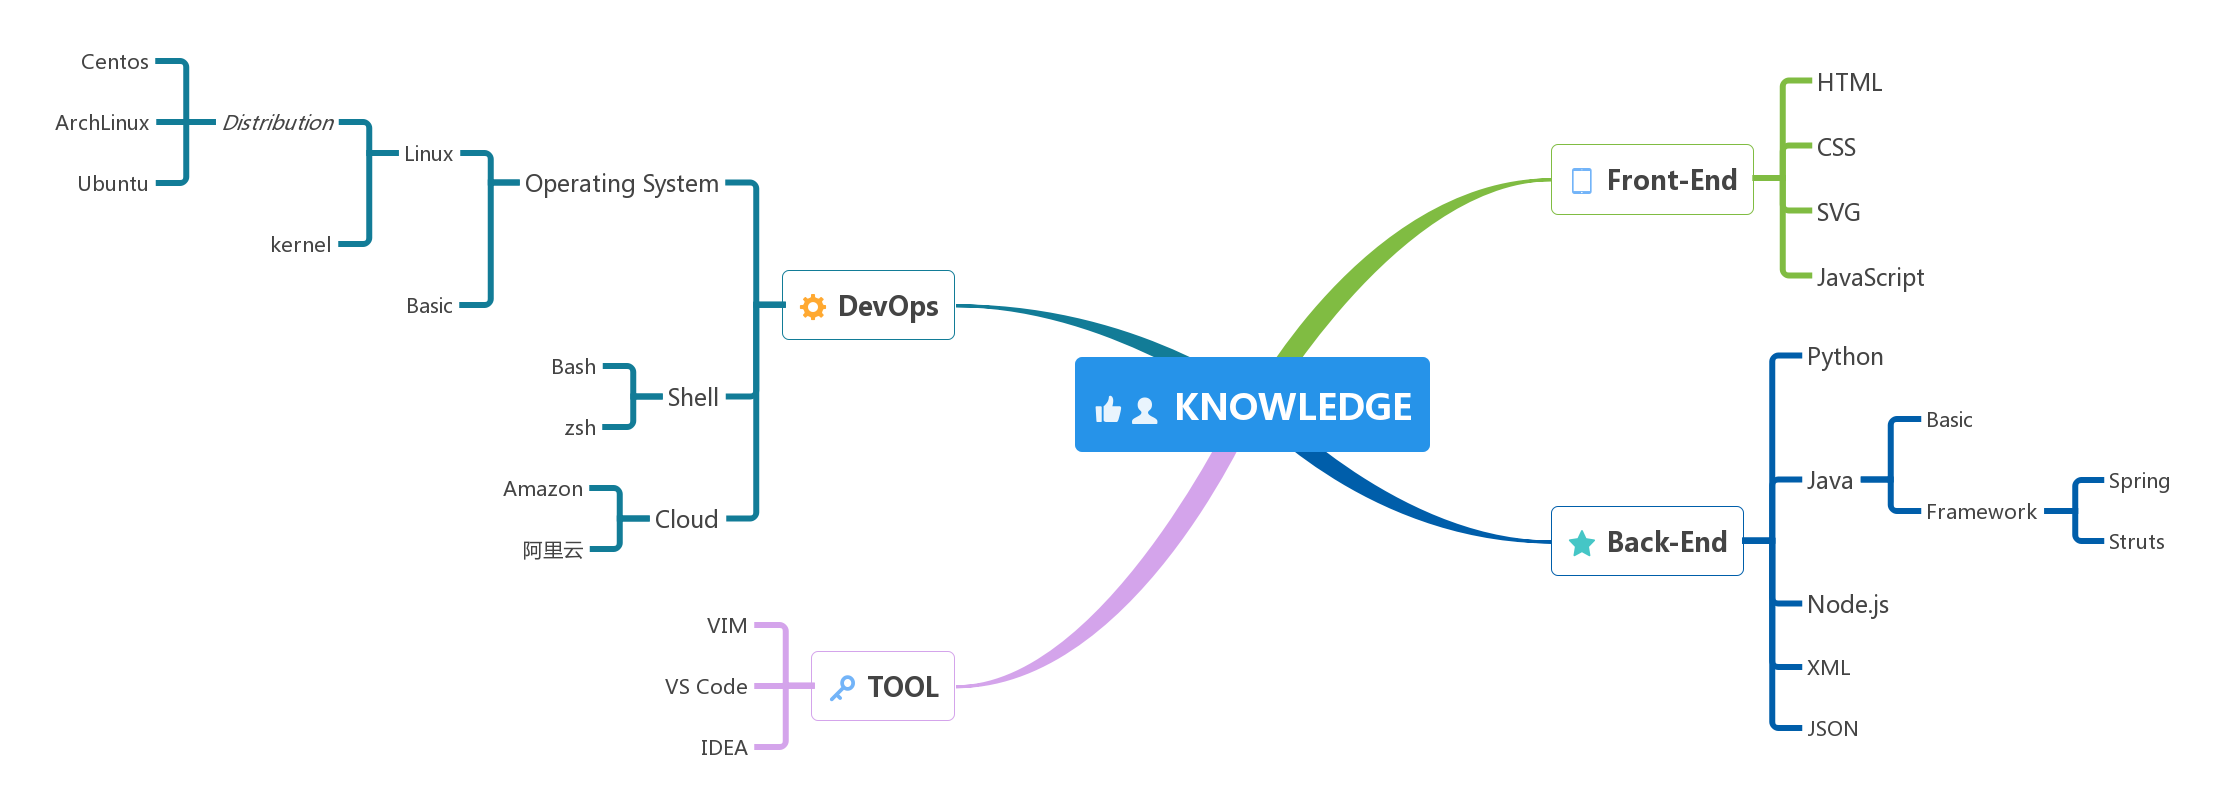
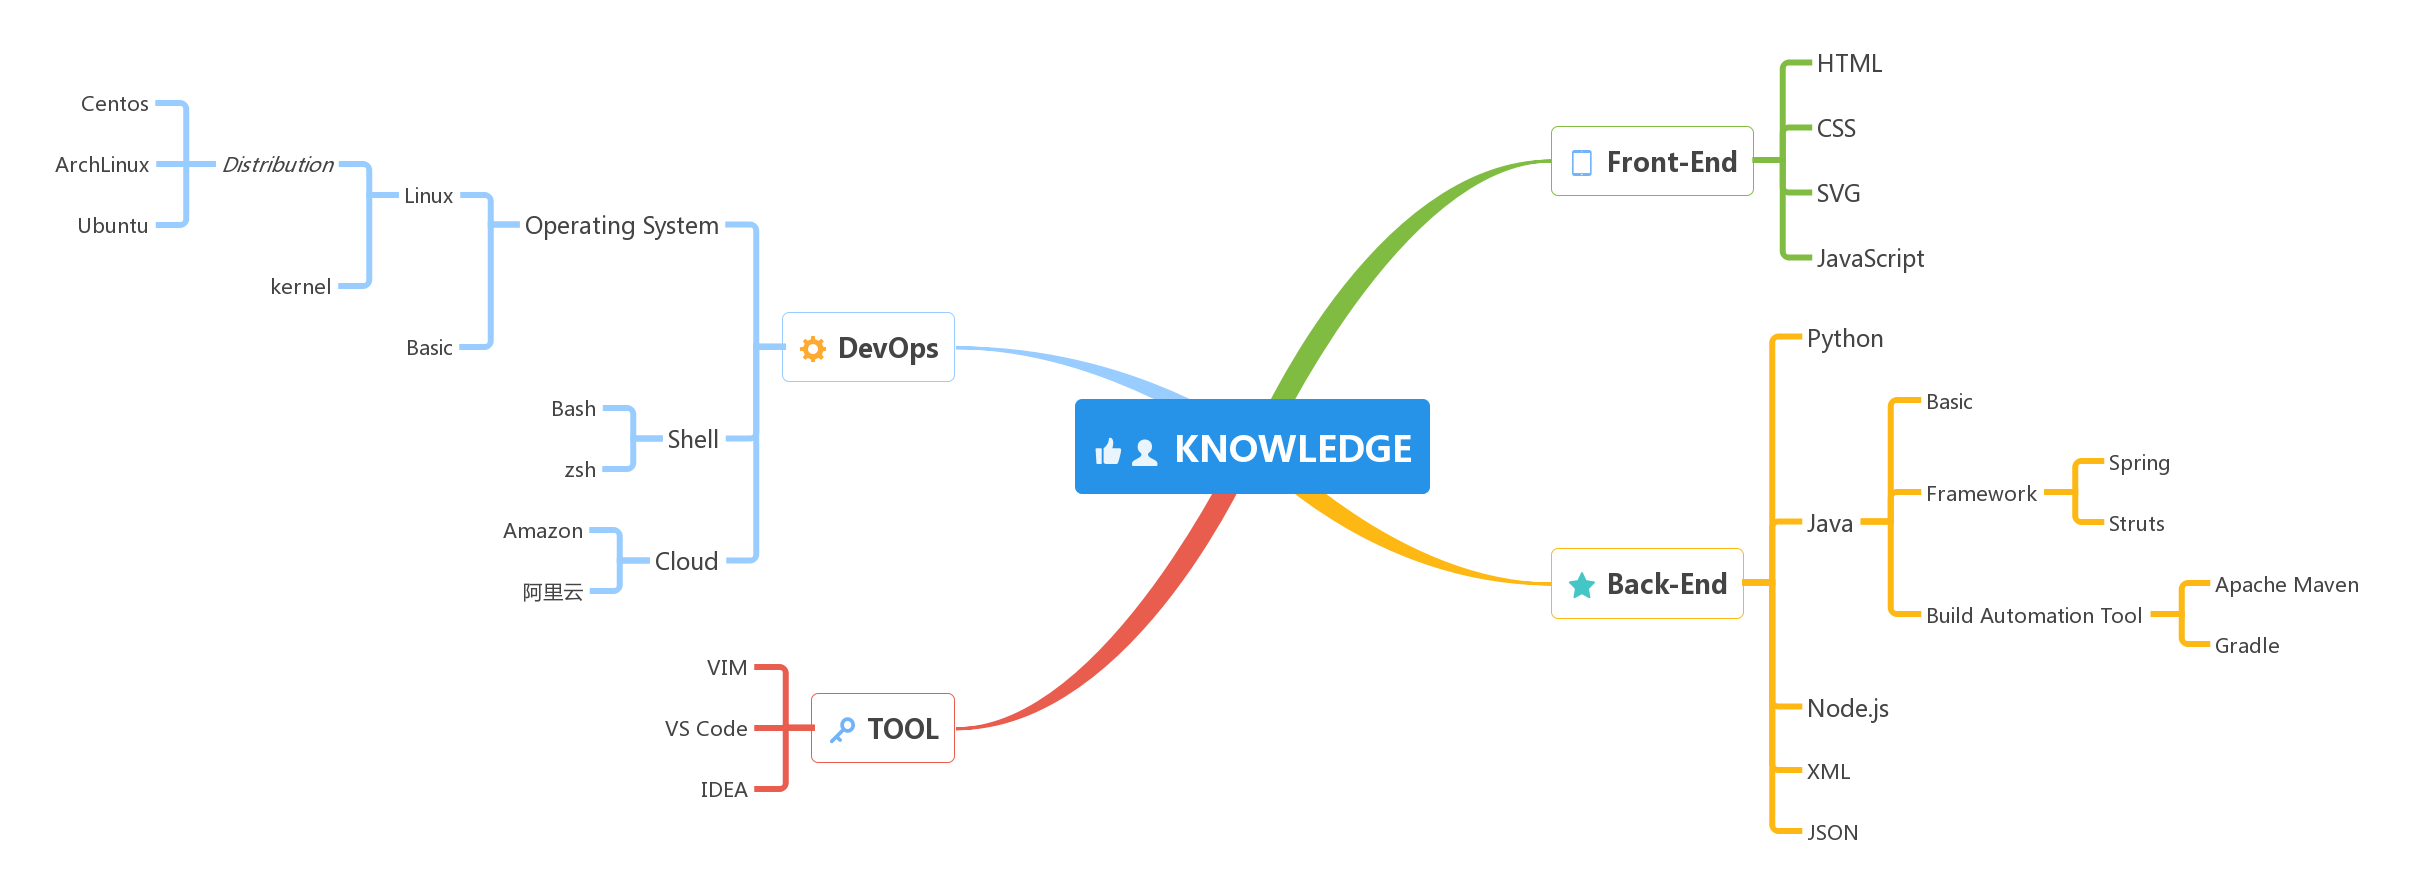
Add Apache Maven

diff --git a/Back-End/Java/BuildAutomationTool/Maven/README.md b/Back-End/Java/BuildAutomationTool/Maven/README.md
@@ -1,0 +1,23 @@
+[![Topic/Other](https://img.shields.io/badge/Topic\/Other-blue-blue.svg)](#) &nbsp;  [![First Layer](https://img.shields.io/badge/First_Layer-green-green.svg)](#) &nbsp;  [![Second Layer](https://img.shields.io/badge/Second_Layer-red-red.svg)](#) &nbsp;  [![Third Layer](https://img.shields.io/badge/Third_Layer-yellow-yellow.svg)](#) &nbsp;  [![4th Layer](https://img.shields.io/badge/4th_Layer-orange-orange.svg)](#) &nbsp;  [![5th Layer](https://img.shields.io/badge/5th_Layer-blue-blue.svg)](#)
+
+# Apache Maven &nbsp; [![Apache Maven](https://img.shields.io/badge/Apache_Maven-ing-blue.svg)](#) [![Apache Maven Official Site](https://img.shields.io/badge/Apache_Maven-Official_Site-blue.svg)](https://maven.apache.org/)
+
+```
+Apache Maven 是一个项目管理工具，自动化构建工具。基于POM实现一个项目的构建、文档、报告的统一管理。Maven可以用于任何Java项目。
+```
+
+[![Apache Maven](./Maven.png)点击查看完整图](https://www.processon.com/embed/mind/5a655904e4b0332f153fc9c9)
+
+# Resource
+
+- [Introduction to the Build Lifecycle](https://maven.apache.org/guides/introduction/introduction-to-the-lifecycle.html)
+- [Maven - Build Life Cycle](https://www.tutorialspoint.com/maven/maven_build_life_cycle.htm)
+- [Maven - Build Profiles](https://www.tutorialspoint.com/maven/maven_build_profiles.htm)
+- [Maven - Repositories](https://www.tutorialspoint.com/maven/maven_repositories.htm)
+- [Maven - Central Repository](https://repo1.maven.org/maven2/)
+- [Maven - Creating Project](https://www.tutorialspoint.com/maven/maven_creating_project.htm)
+- [Maven - Project Templates](https://www.tutorialspoint.com/maven/maven_project_templates.htm)
+- [Maven - Snapshots](https://www.tutorialspoint.com/maven/maven_snapshots.htm)
+- [Maven - Build Automation](https://www.tutorialspoint.com/maven/maven_build_automation.htm)
+- [Maven - Manage Dependencies](https://www.tutorialspoint.com/maven/maven_manage_dependencies.htm)
+- [Maven - Deployment Automation](https://www.tutorialspoint.com/maven/maven_deployment_automation.htm)

diff --git a/README.md b/README.md
@@ -6,7 +6,7 @@
 
 # All Knowledge &nbsp; [![All Knowledge](https://img.shields.io/badge/All_Knowledge-ing-blue.svg)](#)
 
-![All Knowledge](./Knowledge.png)
+[![All Knowledge](./Knowledge.png)点击查看完整图](https://www.processon.com/embed/mind/5a5d6f17e4b0332f1531cbc6)
 
 <!-- ## Front-End &nbsp; [![Front-End](https://img.shields.io/badge/Front_End-ing-green.svg)](#) -->
 
@@ -29,3 +29,9 @@
 ##### Spring &nbsp; [![Spring](https://img.shields.io/badge/Spring-ing-orange.svg)](/Back-End/Java/FrameWork/Spring)
 
 [![Spring](./Back-End/Java/FrameWork/Spring/Spring.png)点击查看完整图](https://www.processon.com/embed/mind/5a5dedffe4b0a447b9a92ee0)
+
+#### Build Automation Tool &nbsp; [![Build Automation Tool](https://img.shields.io/badge/Build_Automation_Tool-ing-yellow.svg)](/Back-End/Java/BuildAutomationTool/)
+
+##### Apache Maven &nbsp; [![Apache Maven](https://img.shields.io/badge/Apache_Maven-ing-orange.svg)](/Back-End/Java/BuildAutomationTool/Maven/)
+
+[![Apache Maven](./Back-End/Java/BuildAutomationTool/Maven/Maven.png)点击查看完整图](https://www.processon.com/embed/mind/5a655904e4b0332f153fc9c9)
